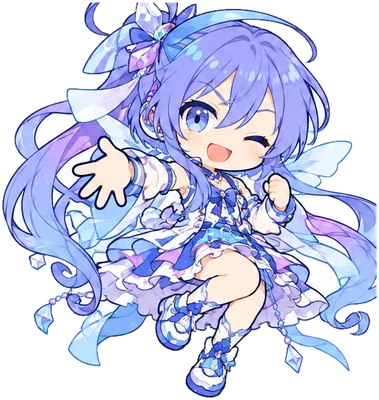
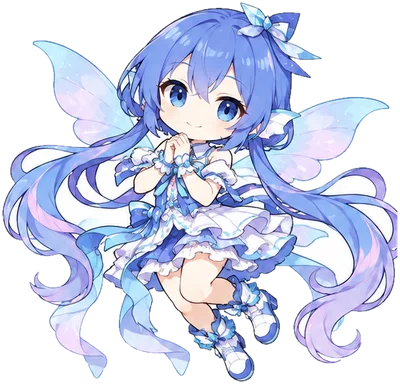
fix: give each voice character its own pose
The first set had every character in the same wink-and-reach pose.
Redraw all 19 with poses and expressions that fit each character.

🤖 Generated with Claude Code

diff --git a/CLAUDE.md b/CLAUDE.md
@@ -110,7 +110,9 @@ pnpm dev
   - 最初はツインテールの形だけで作って「不気味」と言われ、顔のデフォルメにし、さらに本人の希望で影絵にした
   - ピアプロ・キャラクター・ライセンスで非営利・無償の二次創作は認められている。利用規約にクレジットを書いた。サービスのアイコンとして使うことについての記述はガイドラインに見当たらなかった
 - 歌声にはキャラの絵を付ける（2026-10-09）。本人が「キャラクター味を強めないと地味すぎる」と言い、公式の絵でなく AI 生成でよいとした。ChatGPT に二頭身・平塗り・同じ作風で4人ずつ描かせ、背景を抜いて `public/characters/{id}.webp`（400px）に置いた。どの歌声に絵があるかは `src/lib/voice-art.ts`。トップの歌声の区画は、絵のあるキャラだけを絵の札で並べる
-  - 19キャラ（上位から VY1 を除いた分と、リリィ・蒼姫ラピス）。可不は1回目が公式と違ったので、特徴を書いて描き直させた。足すときは同じ会話で「同じ作風・同じ構図の条件で」と頼むと作風がそろう
+  - 19キャラ（上位から VY1 を除いた分と、リリィ・蒼姫ラピス）。可不は1回目が公式と違ったので、特徴を書いて描き直させた。足すときは同じ会話で「同じ条件で」と頼むと作風がそろう
+  - ポーズはキャラの性格に合わせて1人ずつ指定する。「同じ構図で」と頼んだら全員が同じポーズ（片手を広げてウインク）になり、本人に「同じポーズすぎ」と言われて描き直した。持ち物（ネギ・マグロなど）で寄せるのは本人が反対。ポーズと表情で寄せる
+  - 白い髪のキャラ（v flower・可不）は、背景を抜く線を厳しくしないと髪まで抜ける（切り出しのスクリプトは残していない。白の地をマスの縁から塗りつぶして抜いた）
   - 絵は Vercel の画像変換を通さない（元から小さい）
   - 利用規約に、AI で作った非公式のファンアートであることと、取り下げの依頼に応じることを書いた。結月ゆかり・紲星あかりは 2025-07 の規約で AI の絵の収益化が禁止されている。収益化するならこの絵は外す
   - ボカロのファンには AI の絵への反発がある。反応が悪ければ外す
